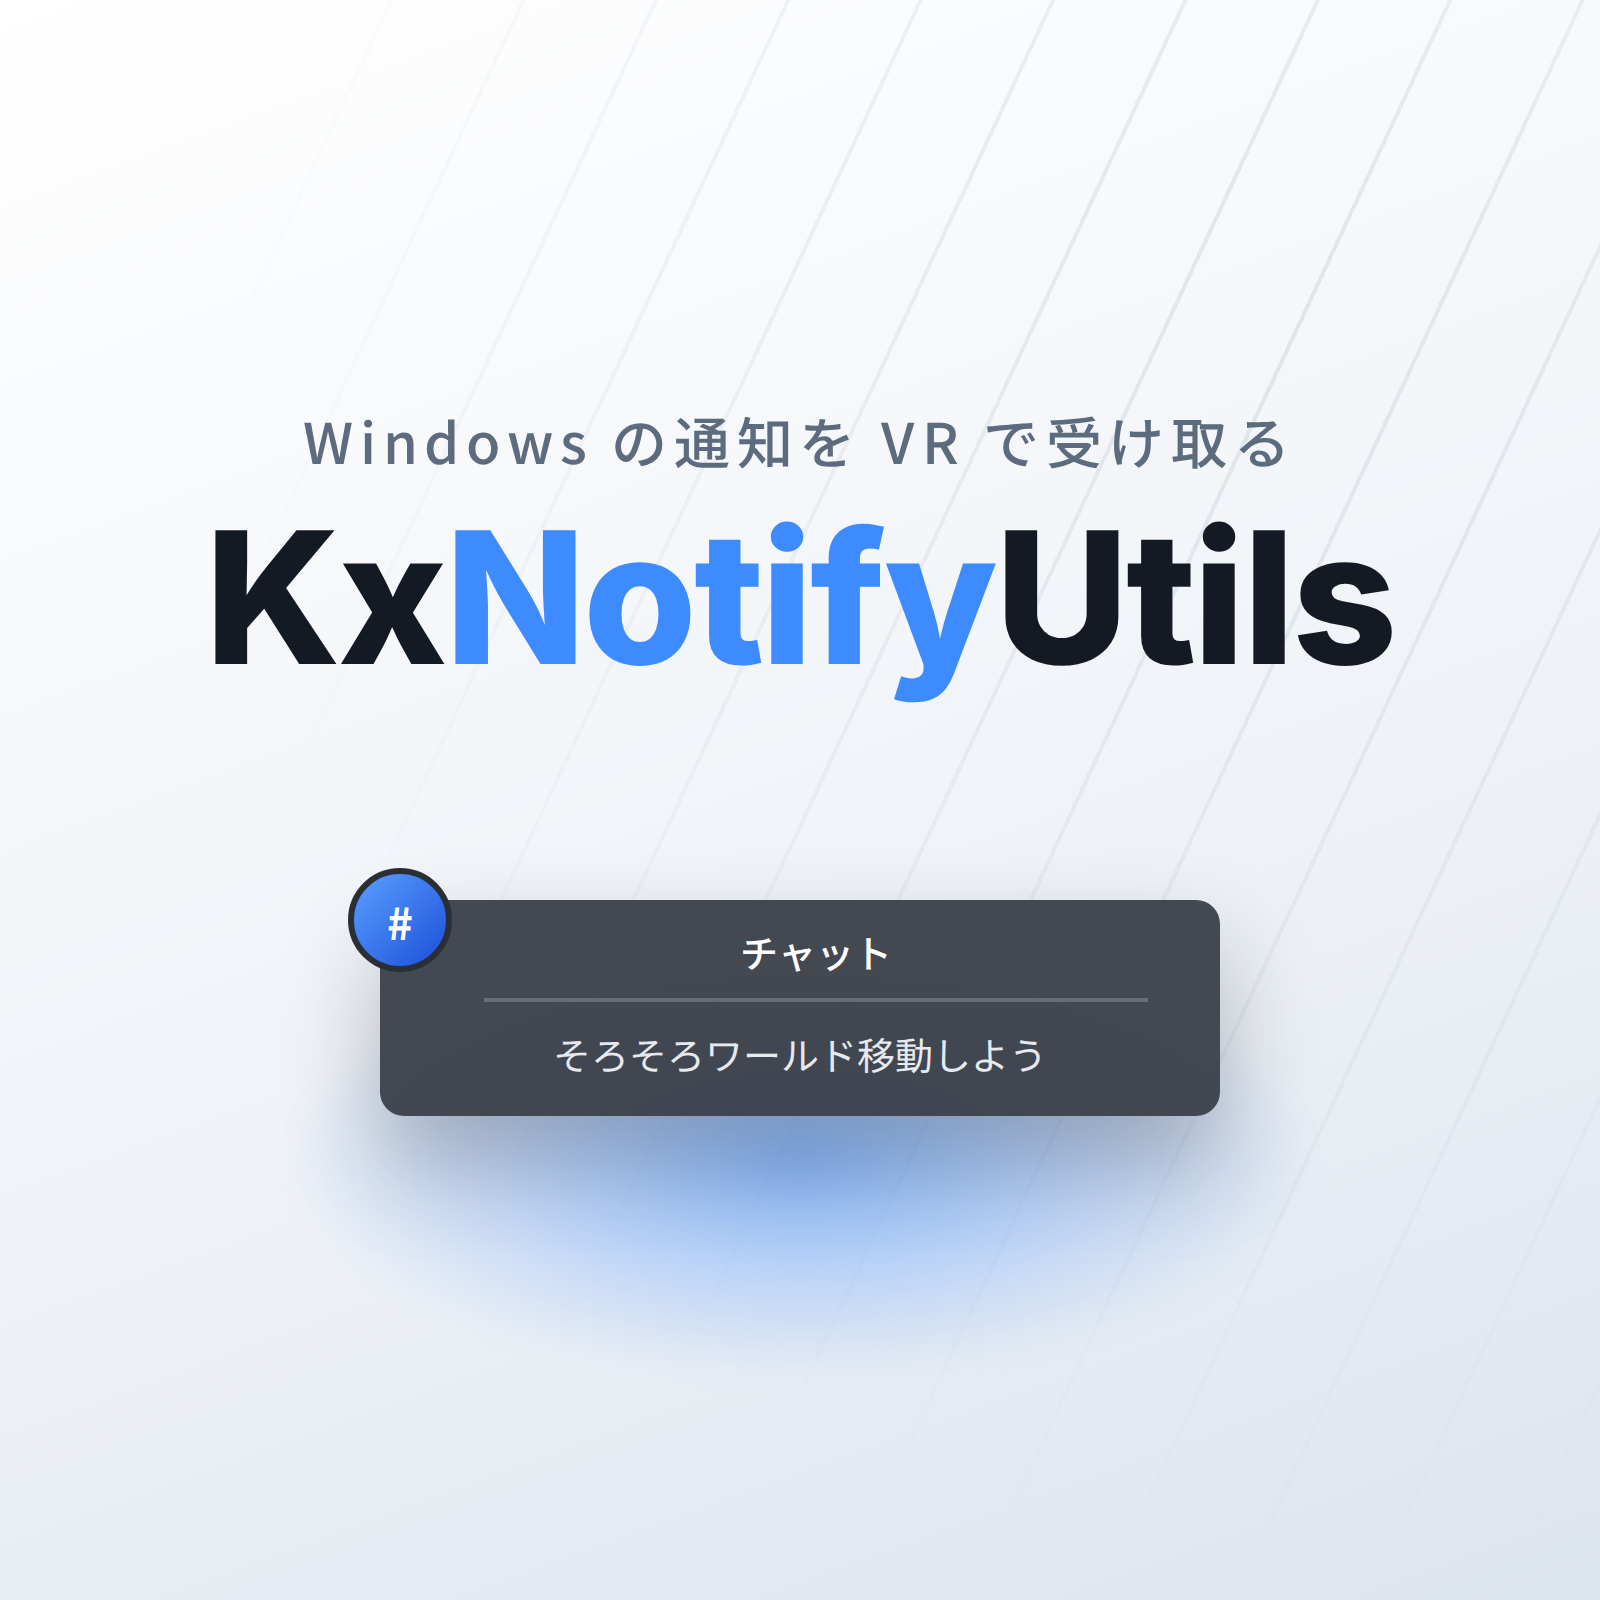
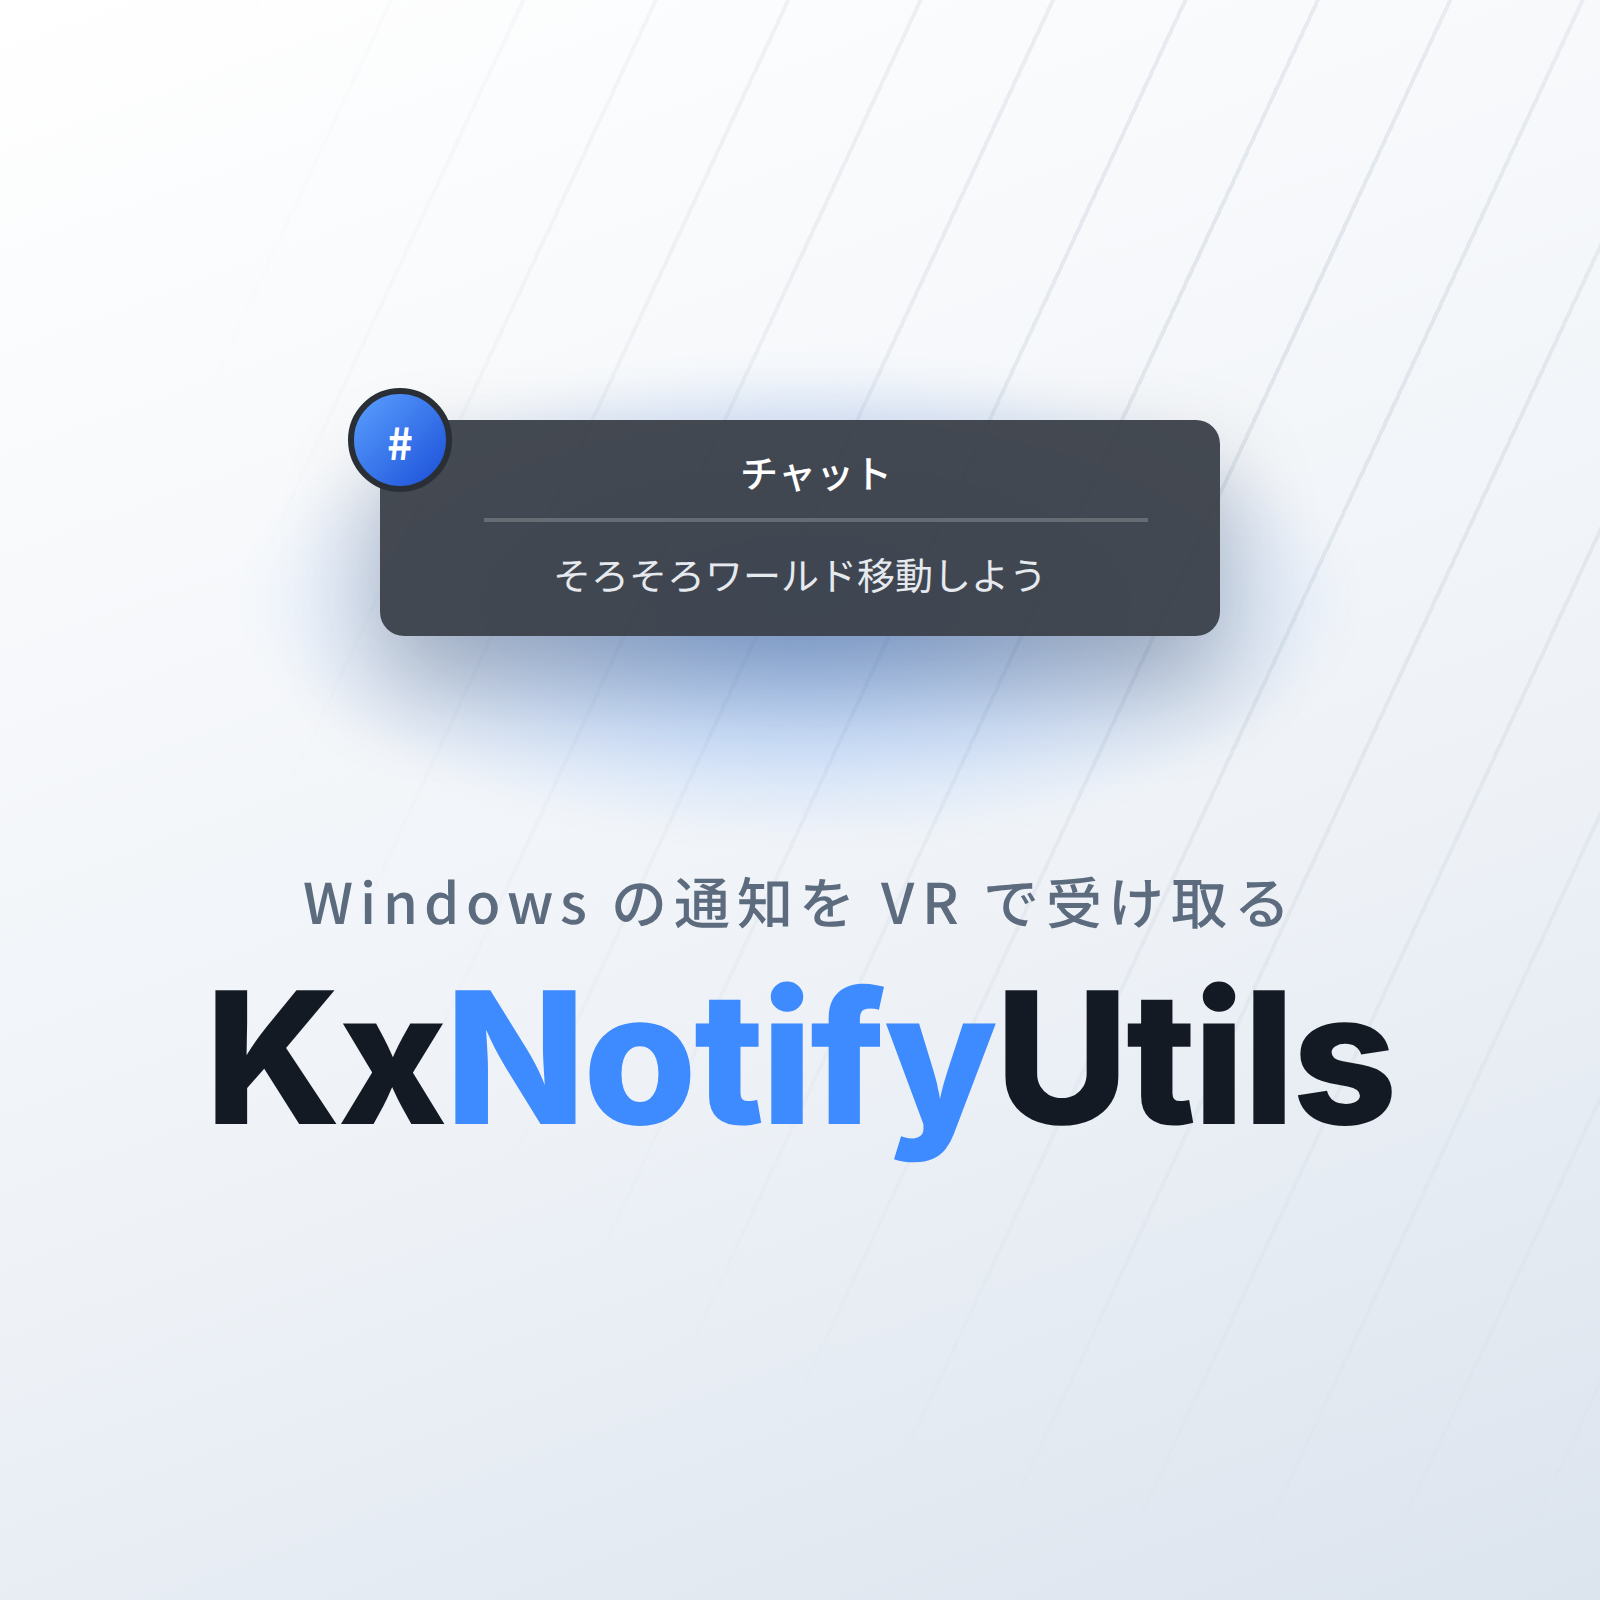
docs(booth): JustNotification と見分けがつくよう構成を変える
星空と地平の影を使わず、文字を中央に積まない配置にする。
地球を左下に置く案、斜めの青い帯に商品名を乗せる案、文字を左に寄せる案、通知を上に置く案の 4 つにする。

Claude-Session: https://claude.ai/code/session_01HaaNd64ErN2sput29WDtM3

Changed region(s): [[0.125, 0.5312, 0.875, 0.8438], [0.125, 0.2188, 0.875, 0.5]]

diff --git a/booth/thumbnail.html b/booth/thumbnail.html
@@ -58,76 +58,58 @@
   }
   .toast .b { font-size: 19px; line-height: 1.45; padding-top: 12px; color: #E6EAEF; }
 
-  .stars { position: absolute; inset: 0; pointer-events: none; }
-  .stars i { position: absolute; border-radius: 50%; background: #fff; }
+  /* JustNotification（星空と山の影、中央に一行と商品名、その下に通知）と構成が重ならないよう、
+     星空と地平の影は使わず、文字も中央に積まない。 */
 
-  /* ---------- A: 宇宙 ---------- */
-  #a { background: var(--space); }
-  #a .nebula {
-    position: absolute; inset: 0;
-    background:
-      radial-gradient(ellipse 60% 40% at 30% 25%, rgba(61, 139, 255, 0.28), transparent 70%),
-      radial-gradient(ellipse 50% 40% at 80% 60%, rgba(27, 79, 216, 0.22), transparent 70%);
-  }
-  /* 地球の縁。画面下に大きな円を置き、大気の青い光を縁に乗せる */
+  /* ---------- A: 軌道上 ---------- */
+  /* 地球を左下に大きく置き、文字は右上に寄せる */
+  #a { background: linear-gradient(200deg, #0B1226 0%, var(--space) 60%); }
   #a .earth {
-    position: absolute; left: 50%; top: 640px; width: 2200px; height: 2200px; margin-left: -1100px;
-    border-radius: 50%;
-    background: radial-gradient(circle at 50% 8%, #2C64C8 0%, #143A86 12%, #0B1F4E 26%, #050B1C 45%);
-    box-shadow: 0 0 60px 20px rgba(80, 150, 255, 0.45), 0 0 160px 60px rgba(61, 139, 255, 0.25);
+    position: absolute; left: -1000px; top: 200px; width: 1600px; height: 1600px; border-radius: 50%;
+    background: radial-gradient(circle at 70% 30%, #4C8DF0 0%, #1E4FB4 18%, #0E2A6E 38%, #050B1C 60%);
+    box-shadow: 0 0 50px 14px rgba(90, 160, 255, 0.5), 0 0 140px 50px rgba(61, 139, 255, 0.22);
   }
   #a .cloud {
-    position: absolute; left: 0; right: 0; top: 640px; height: 160px;
+    position: absolute; left: -1000px; top: 200px; width: 1600px; height: 1600px; border-radius: 50%;
     background:
-      radial-gradient(ellipse 120px 26px at 18% 40%, rgba(255,255,255,0.35), transparent 70%),
-      radial-gradient(ellipse 200px 30px at 55% 55%, rgba(255,255,255,0.3), transparent 70%),
-      radial-gradient(ellipse 140px 24px at 85% 35%, rgba(255,255,255,0.32), transparent 70%);
+      radial-gradient(ellipse 90px 22px at 82% 24%, rgba(255,255,255,0.45), transparent 70%),
+      radial-gradient(ellipse 140px 26px at 88% 36%, rgba(255,255,255,0.35), transparent 70%),
+      radial-gradient(ellipse 110px 20px at 78% 46%, rgba(255,255,255,0.4), transparent 70%);
   }
-  /* 右手の白いリング光 */
-  #a .ring {
-    position: absolute; right: -950px; top: -850px; width: 1200px; height: 1200px; border-radius: 50%;
-    border: 6px solid rgba(255, 255, 255, 0.85);
-    box-shadow: 0 0 40px rgba(255, 255, 255, 0.6), inset 0 0 40px rgba(255, 255, 255, 0.4);
-  }
-  #a .head { top: 190px; }
+  #a .head { left: auto; right: 56px; top: 96px; text-align: right; }
   #a .head .lead { color: var(--silver-dim); }
-  #a .head .name { color: var(--silver); text-shadow: 0 0 40px rgba(61, 139, 255, 0.55); }
-  #a .toast { top: 440px; }
+  #a .head .name { color: var(--silver); font-size: 80px; text-shadow: 0 0 40px rgba(61, 139, 255, 0.5); }
+  #a .toast { left: auto; right: 56px; width: 430px; top: 330px; }
 
-  /* ---------- B: 夕暮れの星空 ---------- */
-  #b {
-    background:
-      radial-gradient(ellipse 50% 45% at 20% 85%, #FF9C7A 0%, rgba(255, 156, 122, 0) 70%),
-      radial-gradient(ellipse 45% 40% at 70% 20%, #FFB98A 0%, rgba(255, 185, 138, 0) 70%),
-      radial-gradient(ellipse 60% 50% at 85% 70%, #7A5BD8 0%, rgba(122, 91, 216, 0) 70%),
-      linear-gradient(200deg, #2C4FB8 0%, #4E63C9 35%, #B872B9 70%, #FFA07E 100%);
+  /* ---------- B: 黒と青 ---------- */
+  /* 黒い服に青い差し色。斜めの青い帯に商品名を乗せる */
+  #b { background: linear-gradient(160deg, #1A1F28 0%, #0F131A 100%); }
+  #b .band {
+    position: absolute; left: -200px; right: -200px; top: 270px; height: 200px;
+    background: linear-gradient(90deg, #2A62E8, #3D8BFF);
+    transform: rotate(-8deg);
+    box-shadow: 0 30px 60px rgba(0, 0, 0, 0.5);
   }
-  #b .haze {
-    position: absolute; inset: 0;
-    background:
-      radial-gradient(ellipse 30% 20% at 40% 40%, rgba(255,255,255,0.25), transparent 70%),
-      radial-gradient(ellipse 35% 18% at 65% 62%, rgba(120, 200, 255, 0.25), transparent 70%);
+  #b .band::before {
+    content: ""; position: absolute; inset: 14px 0;
+    border-top: 2px solid rgba(255, 255, 255, 0.35); border-bottom: 2px solid rgba(255, 255, 255, 0.35);
   }
-  /* 針葉樹の影。三角を重ねただけの形 */
-  #b .trees { position: absolute; left: 0; right: 0; bottom: 0; height: 200px; }
-  #b .trees svg { position: absolute; left: 0; bottom: 0; width: 100%; height: 100%; }
-  #b .head { top: 150px; }
-  #b .head .lead { color: #fff; text-shadow: 0 2px 12px rgba(40, 30, 80, 0.5); }
-  #b .head .name { color: #fff; text-shadow: 0 4px 24px rgba(40, 30, 80, 0.55); }
-  #b .toast { top: 400px; }
+  #b .head { left: 56px; right: auto; top: 90px; text-align: left; }
+  #b .head .lead { color: var(--silver-dim); }
+  #b .head .name { color: #fff; font-size: 84px; margin-top: 190px; transform: rotate(-8deg); transform-origin: left center; }
+  #b .toast { left: 300px; right: 56px; top: 560px; }
 
   /* ---------- C: カフェの夜 ---------- */
+  /* 文字を左に寄せ、通知を右下に置く */
   #c { background: linear-gradient(180deg, #1B1C1F 0%, #26272B 55%, #141517 100%); }
   #c .lights {
     position: absolute; inset: 0;
     background:
-      radial-gradient(circle 120px at 15% 22%, rgba(255, 178, 90, 0.55), transparent 70%),
-      radial-gradient(circle 90px at 50% 12%, rgba(255, 178, 90, 0.45), transparent 70%),
-      radial-gradient(circle 140px at 86% 26%, rgba(255, 178, 90, 0.5), transparent 70%),
-      radial-gradient(circle 70px at 70% 40%, rgba(255, 178, 90, 0.35), transparent 70%);
+      radial-gradient(circle 110px at 62% 18%, rgba(255, 178, 90, 0.5), transparent 70%),
+      radial-gradient(circle 140px at 88% 30%, rgba(255, 178, 90, 0.5), transparent 70%),
+      radial-gradient(circle 70px at 76% 44%, rgba(255, 178, 90, 0.35), transparent 70%);
     filter: blur(8px);
   }
-  /* 吊り下げ照明の線と、カウンターの板 */
   #c .cords { position: absolute; inset: 0; }
   #c .cords i { position: absolute; top: 0; width: 2px; background: rgba(255, 255, 255, 0.18); }
   #c .cords i::after {
@@ -143,42 +125,37 @@
     position: absolute; left: 0; right: 0; bottom: 110px; height: 90px;
     background-image: linear-gradient(rgba(255,255,255,0.06) 2px, transparent 2px), linear-gradient(90deg, rgba(255,255,255,0.06) 2px, transparent 2px);
     background-size: 60px 45px;
-    opacity: 0.9;
   }
-  #c .head { top: 210px; }
+  #c .head { left: 56px; right: auto; top: 250px; text-align: left; }
   #c .head .lead { color: #D9CBB8; }
-  #c .head .name { color: #F2EBE0; }
+  #c .head .name { color: #F2EBE0; font-size: 84px; }
   #c .head .name b { color: var(--eye); font-weight: inherit; }
-  #c .toast { top: 460px; box-shadow: 0 18px 40px rgba(0, 0, 0, 0.6), 0 0 0 1px rgba(255, 178, 90, 0.18); }
+  #c .toast { left: 320px; right: 56px; top: 500px; box-shadow: 0 18px 40px rgba(0, 0, 0, 0.6), 0 0 0 1px rgba(255, 178, 90, 0.18); }
 
   /* ---------- D: 銀白 ---------- */
+  /* 白地。通知を上に置き、商品名を下に置く */
   #d { background: linear-gradient(160deg, #FFFFFF 0%, #EEF2F7 60%, #DCE4EE 100%); color: var(--ink); }
-  /* 髪の流れを思わせる、斜めの細い筋 */
   #d .strands {
     position: absolute; inset: -200px;
     background: repeating-linear-gradient(115deg, rgba(185, 195, 207, 0.0) 0 22px, rgba(185, 195, 207, 0.35) 22px 24px, rgba(255,255,255,0) 24px 60px);
     mask-image: radial-gradient(ellipse 60% 70% at 70% 30%, #000, transparent 75%);
   }
-  /* 瞳の青い光 */
   #d .glow {
-    position: absolute; left: 50%; top: 470px; width: 520px; height: 220px; margin-left: -260px;
-    background: radial-gradient(ellipse at 50% 50%, rgba(61, 139, 255, 0.55), rgba(61, 139, 255, 0) 70%);
+    position: absolute; left: 50%; top: 180px; width: 560px; height: 240px; margin-left: -280px;
+    background: radial-gradient(ellipse at 50% 50%, rgba(61, 139, 255, 0.5), rgba(61, 139, 255, 0) 70%);
     filter: blur(6px);
   }
-  #d .head { top: 200px; }
+  #d .toast { top: 210px; box-shadow: 0 24px 48px rgba(20, 26, 36, 0.28); }
+  #d .head { top: 430px; }
   #d .head .lead { color: #5C6B7D; }
   #d .head .name { color: var(--ink); }
   #d .head .name b { color: var(--eye); font-weight: inherit; }
-  #d .toast { top: 450px; box-shadow: 0 24px 48px rgba(20, 26, 36, 0.28); }
 </style>
 </head>
 <body>
 
-<!-- A: 宇宙。地球の縁と白いリング光。銀白の文字に青い光 -->
+<!-- A: 軌道上。地球を左下に大きく置き、文字は右上 -->
 <section class="cand" id="a">
-  <div class="nebula"></div>
-  <div class="stars" data-stars="140"></div>
-  <div class="ring"></div>
   <div class="earth"></div>
   <div class="cloud"></div>
   <div class="head">
@@ -188,25 +165,22 @@
   <div class="toast"><div class="ic">#</div><div class="t">チャット</div><div class="b">そろそろワールド移動しよう</div></div>
 </section>
 
-<!-- B: 夕暮れの星空。桃と橙と青の空に、針葉樹の影 -->
+<!-- B: 黒と青。斜めの青い帯に商品名 -->
 <section class="cand" id="b">
-  <div class="haze"></div>
-  <div class="stars" data-stars="90" data-max="500"></div>
+  <div class="band"></div>
   <div class="head">
     <div class="lead">HMD を外さずに通知を確認</div>
     <div class="name latin">KxNotifyUtils</div>
   </div>
   <div class="toast"><div class="ic">#</div><div class="t">チャット</div><div class="b">そろそろワールド移動しよう</div></div>
-  <div class="trees"><svg viewBox="0 0 800 260" preserveAspectRatio="none" data-trees></svg></div>
 </section>
 
-<!-- C: カフェの夜。琥珀の照明とカウンター。青の差し色 -->
+<!-- C: カフェの夜。文字は左、通知は右下 -->
 <section class="cand" id="c">
   <div class="lights"></div>
   <div class="cords">
-    <i style="left:120px;height:150px"></i>
-    <i style="left:400px;height:90px"></i>
-    <i style="left:690px;height:180px"></i>
+    <i style="left:496px;height:130px"></i>
+    <i style="left:700px;height:210px"></i>
   </div>
   <div class="tiles"></div>
   <div class="counter"></div>
@@ -217,43 +191,17 @@
   <div class="toast"><div class="ic">#</div><div class="t">チャット</div><div class="b">そろそろワールド移動しよう</div></div>
 </section>
 
-<!-- D: 銀白。白地に髪の筋と、瞳の青い光 -->
+<!-- D: 銀白。通知が上、商品名が下 -->
 <section class="cand" id="d">
   <div class="strands"></div>
   <div class="glow"></div>
+  <div class="toast"><div class="ic">#</div><div class="t">チャット</div><div class="b">そろそろワールド移動しよう</div></div>
   <div class="head">
     <div class="lead">Windows の通知を VR で受け取る</div>
     <div class="name latin">Kx<b>Notify</b>Utils</div>
   </div>
-  <div class="toast"><div class="ic">#</div><div class="t">チャット</div><div class="b">そろそろワールド移動しよう</div></div>
 </section>
 
-<script>
-  // 星。位置と大きさは固定の擬似乱数で決め、書き出すたびに変わらないようにする
-  function rng(seed) { return () => (seed = (seed * 1664525 + 1013904223) % 4294967296) / 4294967296; }
-  document.querySelectorAll(".stars").forEach((el, k) => {
-    const r = rng(7 + k), n = +el.dataset.stars, maxY = +(el.dataset.max || 800);
-    for (let i = 0; i < n; i++) {
-      const s = document.createElement("i"), size = 1 + r() * 2.4;
-      s.style.cssText = `left:${r() * 800}px;top:${r() * maxY}px;width:${size}px;height:${size}px;opacity:${0.35 + r() * 0.65}`;
-      el.appendChild(s);
-    }
-  });
 
-  // 針葉樹の影。三角を三段重ねた形を並べる
-  const trees = document.querySelector("[data-trees]");
-  if (trees) {
-    const r = rng(3); let d = "";
-    for (let x = -20; x < 830; x += 26 + r() * 22) {
-      const h = 70 + r() * 90, w = 16 + r() * 12, base = 260;
-      for (let t = 0; t < 3; t++) {
-        const y = base - h * (0.35 + t * 0.32), ww = w * (1 - t * 0.22), top = y - h * 0.42;
-        d += `M${x - ww},${y} L${x},${top} L${x + ww},${y} Z `;
-      }
-      d += `M${x - 2},${base} L${x - 2},${base - h * 0.3} L${x + 2},${base - h * 0.3} L${x + 2},${base} Z `;
-    }
-    trees.innerHTML = `<path d="${d}" fill="#1C1A3A" opacity="0.92"/>`;
-  }
-</script>
 </body>
 </html>

diff --git a/booth/README.md b/booth/README.md
@@ -5,6 +5,15 @@ BOOTH の商品ページに載せるトップ画像の候補を置く。
 
 | 候補 | 方向性 |
 | --- | --- |
+| `out/thumbnail-a.png` | 軌道上。地球を左下に大きく置き、文字は右上に寄せる |
+| `out/thumbnail-b.png` | 黒と青。斜めの青い帯に商品名を乗せる |
+| `out/thumbnail-c.png` | カフェの夜。琥珀の照明。文字は左、通知は右下 |
+| `out/thumbnail-d.png` | 銀白。白地に通知を上、商品名を下に置く |
+
+どの候補も 1:1 で作ってある。
+
+| 候補 | 方向性 |
+| --- | --- |
 | `out/thumbnail-a.png` | 宇宙。地球の縁と白いリング光を背景に、銀白の商品名 |
 | `out/thumbnail-b.png` | 夕暮れの星空。桃と橙と青の空に、針葉樹の影 |
 | `out/thumbnail-c.png` | カフェの夜。琥珀の照明とカウンター。商品名に青の差し色 |
@@ -12,6 +21,8 @@ BOOTH の商品ページに載せるトップ画像の候補を置く。
 
 どの候補も、一行の説明と商品名と通知 1 つだけで構成する。
 VRChat 向けアプリでスキ数の多い商品の多くがこの形をとっている。
+ただし直接の競合である JustNotification（星空と山の影を背景に、中央に一行と商品名、その下に通知）と見分けがつくよう、
+星空と地平の影は使わず、文字も中央に積まない。
 
 配色と背景の題材は、作者が撮った VRChat のスクリーンショットから拾った。
 銀白の髪と青い瞳、黒い服に青の差し色、宇宙と地球、夕暮れの星空、カフェの照明である。
